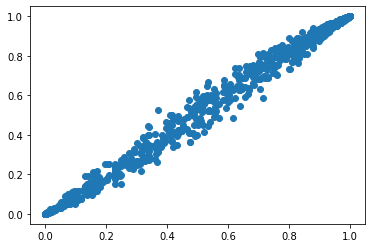
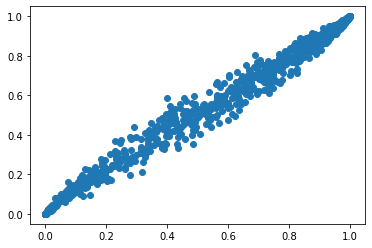
correction : vs *

Changed region(s): [[0.1183, 0.0565, 0.9462, 0.875]]

diff --git a/stepwise_formula/formula.py b/stepwise_formula/formula.py
@@ -57,10 +57,13 @@ class Formula:
         terms = terms.union(t1)
         terms = terms.union(t2)
 
-        if self.operation.symbol == '*' or self.operation.symbol == ':':        
+        
+        if self.operation.symbol == ':' :        
+            terms = ([Formula(Formula.multiplication, x1, x2) for x1 in t1 for x2 in t2])
+            
+        if self.operation.symbol == '*':        
             terms = terms.union([Formula(Formula.multiplication, x1, x2) for x1 in t1 for x2 in t2])
-            if self.operation.symbol == ':':
-                return terms
+              
         
         return terms
 

diff --git a/stepwise_formula/stepwise.py b/stepwise_formula/stepwise.py
@@ -7,7 +7,7 @@ def stepwise(formula, dataframe, model_type):
     y_name = splitted[0]
     formula = splitted[1]
     f = Formula.fromString(formula)
-
+    print(f.terms())
     dataframe = dataframe.copy()
     for term in filter(lambda x: isinstance(x, Formula), f.terms()):
         dataframe[term.__repr__()] = term.apply(dataframe)

diff --git a/README.md b/README.md
@@ -36,7 +36,7 @@ x2=np.random.normal(0,1,1000)
 x3=np.random.normal(0,1,1000)
 x4=np.random.normal(0,1,1000)/5
 
-z=1 + 2*x1 + 3*x2 + 2*x2*x3 + x4
+z=1 + 2*x1 + x2 + 2*x2*x3 + x4
 pr=1/(1+np.exp(-z))
 y=sc.stats.binom.rvs(1, pr, size=1000)
 df = pd.DataFrame(data={'y':y, 'x1':x1, 'x2':x2, 'x3':x3, 'x4':x4})
@@ -47,7 +47,7 @@ df = pd.DataFrame(data={'y':y, 'x1':x1, 'x2':x2, 'x3':x3, 'x4':x4})
 
 
 ```python
-formula = 'y ~ x1 + x2*x3*x4'
+formula = 'y ~  x2*x3 + x1:x4 '
 ```
 
 ## Run stepwise using formula
@@ -57,47 +57,42 @@ formula = 'y ~ x1 + x2*x3*x4'
 a = stepwise(formula, df, 'logistic')
 ```
 
+    {x2*x3, x1*x4, 'x3', 'x2'}
     Character Variables (Dummies Generated, First Dummies Dropped): []
     Optimization terminated successfully.
-             Current function value: 0.292915
-             Iterations 8
+             Current function value: 0.394587
+             Iterations 7
     Eliminated : x3
     Optimization terminated successfully.
-             Current function value: 0.292943
-             Iterations 8
-    Eliminated : x2*x4
+             Current function value: 0.394595
+             Iterations 7
+    Eliminated : x1*x4
     Optimization terminated successfully.
-             Current function value: 0.293177
-             Iterations 8
-    Eliminated : x3*x4
-    Optimization terminated successfully.
-             Current function value: 0.293655
-             Iterations 8
-    Eliminated : x2*x3*x4
-    Optimization terminated successfully.
-             Current function value: 0.294603
-             Iterations 8
+             Current function value: 0.396311
+             Iterations 7
+    Regained :  x1*x4
                                Logit Regression Results                           
     ==============================================================================
     Dep. Variable:                      y   No. Observations:                 1000
-    Model:                          Logit   Df Residuals:                      995
-    Method:                           MLE   Df Model:                            4
-    Date:                Mon, 05 Oct 2020   Pseudo R-squ.:                  0.5609
-    Time:                        15:54:56   Log-Likelihood:                -294.60
-    converged:                       True   LL-Null:                       -670.93
-    Covariance Type:            nonrobust   LLR p-value:                1.377e-161
+    Model:                          Logit   Df Residuals:                      994
+    Method:                           MLE   Df Model:                            5
+    Date:                Wed, 07 Oct 2020   Pseudo R-squ.:                  0.4026
+    Time:                        13:48:16   Log-Likelihood:                -394.60
+    converged:                       True   LL-Null:                       -660.53
+    Covariance Type:            nonrobust   LLR p-value:                1.049e-112
     ==============================================================================
                      coef    std err          z      P>|z|      [0.025      0.975]
     ------------------------------------------------------------------------------
-    intercept      1.1250      0.121      9.327      0.000       0.889       1.361
-    x1             2.1661      0.171     12.636      0.000       1.830       2.502
-    x2             3.3304      0.247     13.479      0.000       2.846       3.815
-    x4             1.2785      0.526      2.431      0.015       0.248       2.309
-    x2*x3          2.1017      0.204     10.323      0.000       1.703       2.501
+    intercept      0.9307      0.097      9.556      0.000       0.740       1.122
+    x1             1.8153      0.134     13.545      0.000       1.553       2.078
+    x2             0.7976      0.111      7.154      0.000       0.579       1.016
+    x4             0.8838      0.449      1.968      0.049       0.004       1.764
+    x2*x3          1.9254      0.165     11.660      0.000       1.602       2.249
+    x1*x4         -1.0898      0.579     -1.881      0.060      -2.226       0.046
     ==============================================================================
-    AIC: 599.2050648684576
-    BIC: 623.7438412633683
-    Final Variables: ['intercept', 'x1', 'x2', 'x4', 'x2*x3']
+    AIC: 801.1906769633258
+    BIC: 830.6372086372187
+    Final Variables: ['intercept', 'x1', 'x2', 'x4', 'x2*x3', 'x1*x4']
 
 
 ## filter final list of variables by pvalue
@@ -110,10 +105,10 @@ np.round(a[2].params[a[2].pvalues<0.01],2)
 
 
 
-    intercept    1.12
-    x1           2.17
-    x2           3.33
-    x2*x3        2.10
+    intercept    0.93
+    x1           1.82
+    x2           0.80
+    x2*x3        1.93
     dtype: float64
 
 
@@ -135,10 +130,10 @@ np.round(mod.params[mod.pvalues<0.01],2)
 
 
 
-    Intercept    1.09
-    x1           2.12
-    x2           3.27
-    x2:x3        2.07
+    Intercept    0.92
+    x1           1.80
+    x2           0.78
+    x2:x3        1.89
     dtype: float64
 
 
@@ -156,7 +151,7 @@ plt.scatter(pr, pred)
 
 
 
-    <matplotlib.collections.PathCollection at 0x7f4c23d573d0>
+    <matplotlib.collections.PathCollection at 0x7f18adb912b0>
 
 
 
